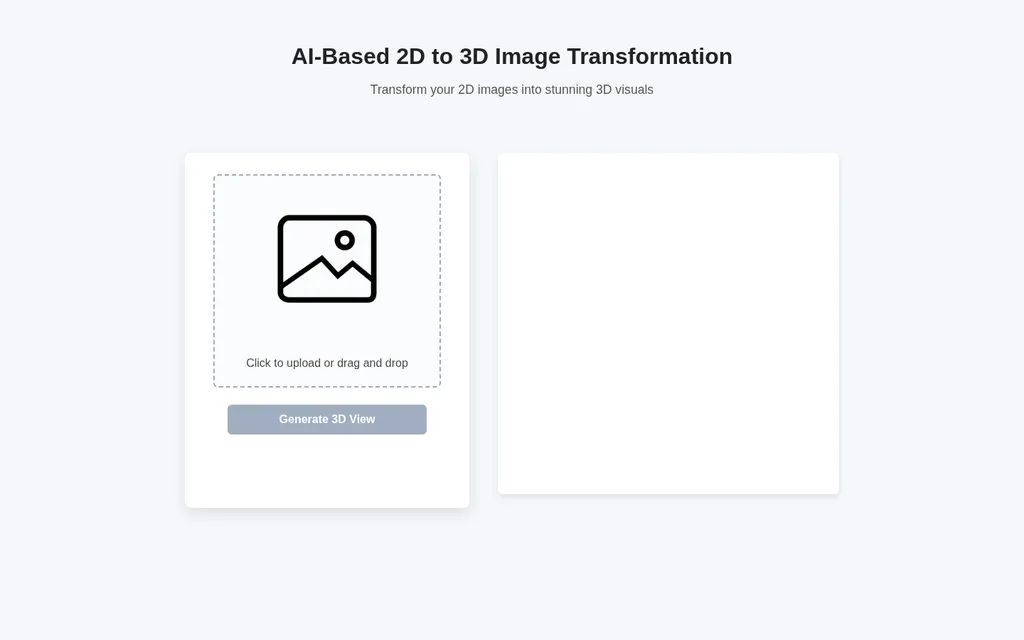
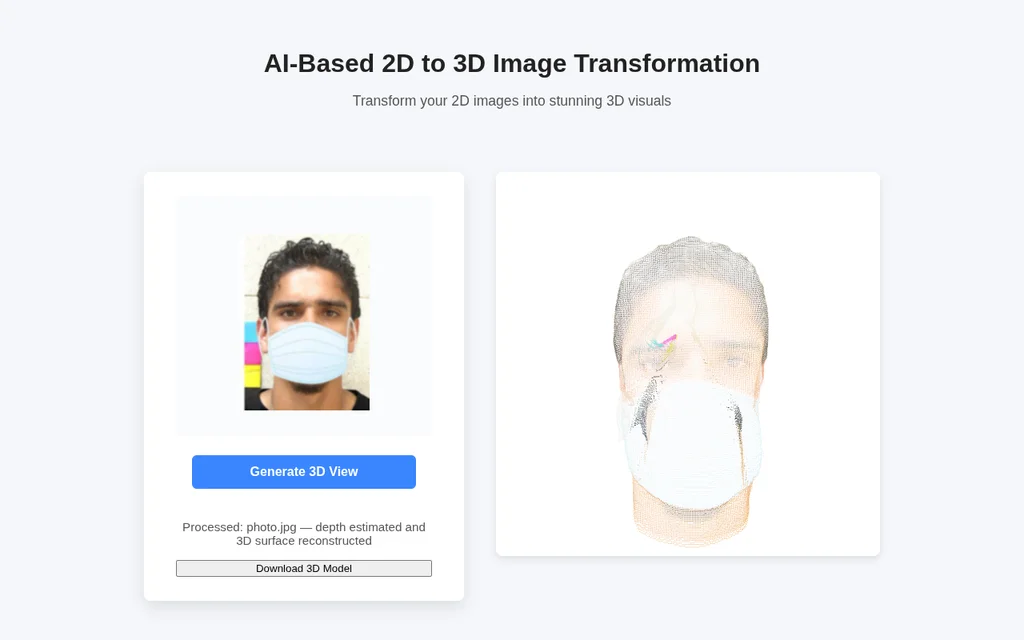
Round 2: real project shots, smooth animation, clearer finale, faster load
Project screenshots (assets/shots/) — recaptured from the real pipelines
so each card shows what the project actually does, not a placeholder:
- mask: YuNet face detect + Keras mask classifier at native res, crisp
  annotations upscaled (was a cluttered gif frame)
- web3d: DPT depth -> point cloud in the real app UI, 2D photo to 3D face
  (was the empty upload state)
- dbassistant: real FastAPI /docs, dark themed, POST /query expanded to
  show the request body (was a washed-out light Swagger)
- tinyblog: real Django homepage seeded with realistic posts (was light/sparse)

Animation smoothness (the "not that smooth" complaint) — the root cause was
the software-GL path never reaching a high frame rate, so the render cost had
to come down without losing the look:
- governor ladder extends below 1.0 ([1.5,1.25,1.0,0.75,0.6,0.5]) so
  SwiftShader/weak-iGPU machines trade internal size for a stable ~40fps;
  faster EMA + hysteresis so it settles quickly and never flaps
- the dithered halftone post pass is skipped at p >= 0.915, where the finale
  has fully blended to color and the pass is an identity copy
- the lensed-geodesic step budget (uSteps) scales with the governor ratio —
  it is the heaviest shader on the site
- accretion disk 60k -> 48k particles with a uGain compensation; a dense
  additive field, so it reads identically with less vertex work + overdraw

Final page legibility (the "final page not clear" complaint):
[…]

Changed region(s): [[0.1875, 0.3125, 0.4375, 0.9062], [0.5938, 0.375, 0.75, 0.8438], [0.25, 0.0625, 0.75, 0.1875]]

diff --git a/js/shared/stage.js b/js/shared/stage.js
@@ -96,22 +96,31 @@ export function createStage() {
      ratio down, sustained fast frames (<~15ms for a while) step it back
      up, with hysteresis so it never flaps. Desktops rarely leave the
      top step; on phones it is the difference between 60fps and jank. */
-  var GOV_MIN = 1.25;
+  /* the ladder extends below 1.0: on machines whose only renderer is a
+     software GL path (SwiftShader/llvmpipe, e.g. a headless VM) or a weak
+     iGPU, full-resolution frames never reach 40fps, so internal render
+     size is the only lever — the dithered look survives a size step and
+     40fps at 0.75x beats 15fps at full res. Fast GPUs never leave the
+     top step. */
   var govSteps = [getPixelRatio()];
-  if (govSteps[0] > 1.5) govSteps.push(1.5);
-  if (govSteps[0] > GOV_MIN) govSteps.push(GOV_MIN);
+  var LADDER = [1.5, 1.25, 1.0, 0.75, 0.6, 0.5];
+  for (var li = 0; li < LADDER.length; li++) {
+    if (govSteps[0] > LADDER[li]) govSteps.push(LADDER[li]);
+  }
   var govIdx = 0, govEma = 0, govLast = 0, govFrames = 0, govFast = 0;
+  var govOff = false; // manual freeze (debug / pinned quality): window.__EB.govOff(true)
 
   function tickGovernor() {
+    if (govOff) return;
     var now = (typeof performance !== 'undefined' && performance.now) ? performance.now() : Date.now();
     if (govLast) {
       var ft = now - govLast;
       if (ft > 0 && ft < 1000) {          // a tab-switch gap is not a slow frame
-        govEma = govEma ? govEma + (ft - govEma) * 0.05 : ft;
+        govEma = govEma ? govEma + (ft - govEma) * 0.1 : ft;
       }
     }
     govLast = now;
-    if (++govFrames % 30 !== 0 || govSteps.length < 2) return;
+    if (++govFrames % 15 !== 0 || govSteps.length < 2) return;
     if (govEma > 24 && govIdx < govSteps.length - 1) {
       govIdx++;
       govFast = 0;
@@ -130,17 +139,23 @@ export function createStage() {
   /* frame-end render: from p >= 0.91 the lensed black hole pass owns the
      screen (when a finale renderer is attached); otherwise the story
      scene goes through the dither post pass; the flash sink commits
-     exactly once per frame. */
+     exactly once per frame.
+     When the dither has fully blended to color (p >= 0.915) the post
+     pass is an identity copy — the finale blits straight to the screen
+     and the whole pass is skipped. */
   function render(ctx, finale) {
     tickGovernor();
+    var direct = !!(finale && ctx.p >= 0.915);
     if (ctx.p >= 0.91 && finale) {
-      finale(ctx);
+      finale(ctx, direct);
     } else {
       renderer.setRenderTarget(dither.rt);
       renderer.render(scene, camera);
     }
-    renderer.setRenderTarget(null);
-    renderer.render(dither.postScene, dither.postCam);
+    if (!direct) {
+      renderer.setRenderTarget(null);
+      renderer.render(dither.postScene, dither.postCam);
+    }
     flashSink.commit();
   }
 
@@ -152,6 +167,19 @@ export function createStage() {
     dither: dither,
     mobileQ: mobileQ,
     resize: resize,
-    render: render
+    render: render,
+    /* manual override (debug / future quality control): aligns the
+       governor to the ladder step closest to the requested ratio */
+    setRatio: function (r) {
+      var want = Math.max(0.5, Math.min(2, r || getPixelRatio()));
+      var best = 0, bd = Infinity;
+      for (var i = 0; i < govSteps.length; i++) {
+        var d = Math.abs(govSteps[i] - want);
+        if (d < bd) { bd = d; best = i; }
+      }
+      govIdx = best;
+      setPixelRatio(govSteps[best]);
+    },
+    govOff: function (b) { govOff = !!b; }
   };
 }

diff --git a/js/animations/shards/shards.js b/js/animations/shards/shards.js
@@ -41,6 +41,13 @@ var sDir, sZ0, sSpd, sSize, sAxis, sTSpd;
 var projectShards = [];
 var projectMeshes = [];
 
+/* the slab face canvas: 1024x672 device pixels. drawSlab works in a
+   512x336 design space (see the scale below), which the texture
+   upscales — at the slab's on-screen size (hundreds of device pixels
+   wide, up to ~1600 on 4K) the screenshot region stays sharp instead
+   of soft */
+var SLAB_W = 1024, SLAB_H = 672;
+
 // the cards' idle float clock: always ticks (fed from ctx.rawDt in
 // update) so the parked cards keep drifting gently even while the
 // story clock is frozen at the park
@@ -108,10 +115,28 @@ function buildShardGeometry(seedOffset) {
    SAME slab is repainted with the shot inside the glass and the
    CanvasTexture is bumped — the material is never swapped. A slow or
    failed load just leaves the procedural glass behind. */
+/* the screenshots are queued at init and fetched only when the story
+   is about to reach the shard band (p > 0.42): they are never part of
+   the first paint, so the page loads at the speed of three.js + the
+   hero scene. The slabs render as procedural glass until a shot
+   arrives (the onload repaints the same texture, no material swap). */
+var shotQueue = [];
+
+function loadShots() {
+  if (!shotQueue.length) return;
+  for (var i = 0; i < shotQueue.length; i++) {
+    var s = shotQueue[i];
+    s.img.fetchPriority = 'low';
+    s.img.decoding = 'async';
+    s.img.src = s.src;
+  }
+  shotQueue.length = 0;
+}
+
 function buildShardTexture(i) {
-  var W = 512, H = 336;
-  var c = document.createElement('canvas'); c.width = W; c.height = H;
+  var c = document.createElement('canvas'); c.width = SLAB_W; c.height = SLAB_H;
   var ctx = c.getContext('2d');
+  ctx.scale(SLAB_W / 512, SLAB_H / 336); // drawSlab uses 512x336 design units
   var t = new THREE.CanvasTexture(c);
   t.colorSpace = THREE.SRGBColorSpace;
 
@@ -127,7 +152,7 @@ function buildShardTexture(i) {
       drawSlab(i, slab);
       t.needsUpdate = true;
     };
-    img.src = ROOT + pr.shot;
+    shotQueue.push({ img: img, src: ROOT + pr.shot });
   }
   return t;
 }
@@ -383,6 +408,10 @@ function update(ctx) {
   var sizeMul = ctx.isMobile ? 0.8 : 1.0;
   var xMul = ctx.isMobile ? 0.5 : 1.0;
   var ex = ctx.ex, pop = ctx.pop, pull = ctx.pull, flowZ = ctx.flowZ;
+
+  /* the shots are fetched once, just before the shard band (p >= 0.585)
+     — they never ride along with the first paint */
+  if (shotQueue.length && p > 0.42) loadShots();
 
   /* ambient shards — the instanced-matrix loop (and the upload) runs
      only when one of its inputs moved. While the story is parked,

diff --git a/js/animations/blackhole/lens.js b/js/animations/blackhole/lens.js
@@ -16,15 +16,16 @@ import { getPixelRatio, onPixelRatio } from '../../shared/pixratio.js';
 var rtWorld, rtLens;
 var lensMat, lensScene, lensCam;
 var blitMat, blitScene, blitCam;
+var isMobile = false;
 
 var BH_RS = 50; // schwarzschild radius — must match BH_RS in blackhole/hole.js
 
 function init(ctx) {
+  isMobile = ctx.isMobile;
+
   /* the stage's adaptive governor steps the ratio at runtime: keep
      the render-target sizes in sync without a window resize */
-  onPixelRatio(function () { resize(); });
-
-  var isMobile = ctx.isMobile;
+  onPixelRatio(function () { resize(); applyQuality(); });
 
   rtWorld = new THREE.WebGLRenderTarget(2, 2, {
     minFilter: THREE.LinearFilter, magFilter: THREE.LinearFilter
@@ -177,6 +178,7 @@ function init(ctx) {
   blitScene.add(new THREE.Mesh(new THREE.PlaneGeometry(2, 2), blitMat));
 
   resize();
+  applyQuality();
 }
 
 function resize() {
@@ -191,12 +193,24 @@ function resize() {
   lensMat.uniforms.uAspect.value = lw / lh;
 }
 
+/* the geodesic loop's step budget tracks the pixel ratio: a lowered
+   ratio means the governor found slow frames (software GL / weak
+   iGPU), and the RK4 trace is the heaviest shader on the site. Fewer
+   steps only change rays that orbit 4+ turns before escaping — a
+   sub-pixel sliver hugging the critical ring, invisible in practice. */
+function applyQuality() {
+  var r = getPixelRatio();
+  lensMat.uniforms.uSteps.value = isMobile
+    ? (r <= 0.75 ? 600 : 900)
+    : (r <= 0.75 ? 1000 : 1600);
+}
+
 function update(ctx) {
   // fade the whole lensed image in over H
   lensMat.uniforms.uBi.value = M.phase(0.91, 0.95, ctx.p);
 }
 
-function render(ctx) {
+function render(ctx, direct) {
   var renderer = ctx.renderer, camera = ctx.camera;
   // 1) lensable world (starfield + nebulae + particle disk) -> rtWorld
   renderer.setRenderTarget(rtWorld);
@@ -208,9 +222,11 @@ function render(ctx) {
   lensMat.uniforms.uFl.value = 1 / Math.tan((camera.fov * 0.5) * Math.PI / 180);
   renderer.setRenderTarget(rtLens);
   renderer.render(lensScene, lensCam);
-  // 3) blit the lensed image into the main RT (dither pass follows as usual)
+  // 3) blit the lensed image into the main RT (the dither pass follows
+  //    as usual) — or straight to the screen when the dither is fully
+  //    blended to color and the post pass would be an identity copy
   blitMat.map = rtLens.texture;
-  renderer.setRenderTarget(dither.rt);
+  renderer.setRenderTarget(direct ? null : dither.rt);
   renderer.render(blitScene, blitCam);
 }
 

diff --git a/css/style.css b/css/style.css
@@ -201,7 +201,7 @@ body { overflow-x: hidden; }
   position: absolute;
   inset: 0;
   background: linear-gradient(100deg,
-    rgba(0, 0, 0, 0.66) 0%, rgba(0, 0, 0, 0.34) 30%, rgba(0, 0, 0, 0) 52%);
+    rgba(0, 0, 0, 0.78) 0%, rgba(0, 0, 0, 0.45) 30%, rgba(0, 0, 0, 0.12) 52%, rgba(0, 0, 0, 0) 68%);
   pointer-events: none;
 }
 
@@ -224,11 +224,11 @@ body { overflow-x: hidden; }
   align-items: center;
   gap: 9px;
   margin: 0 0 6px;
-  font-size: 11px;
+  font-size: 12px;
   font-weight: 700;
   letter-spacing: 0.38em;
   text-transform: uppercase;
-  color: rgba(255, 255, 255, 0.78);
+  color: rgba(255, 255, 255, 0.85);
 }
 
 #final-tag .dot {
@@ -247,31 +247,34 @@ body { overflow-x: hidden; }
   line-height: 1.04;
   color: #ffffff;
   -webkit-text-fill-color: #ffffff;
+  /* tight dark core shadow for legibility, glow kept short so the
+     letterforms stay crisp over the lensed disk */
   text-shadow:
-    0 0 12px rgba(214, 230, 255, 0.8),
-    0 0 38px rgba(125, 165, 255, 0.55),
-    0 0 90px rgba(255, 170, 90, 0.35),
-    0 2px 10px rgba(0, 0, 0, 0.95);
+    0 0 8px rgba(214, 230, 255, 0.55),
+    0 0 30px rgba(125, 165, 255, 0.35),
+    0 2px 12px rgba(0, 0, 0, 0.98),
+    0 4px 28px rgba(0, 0, 0, 0.8);
 }
 
 #final-sub {
   margin: 0;
-  font-size: 11px;
+  font-size: 12.5px;
   letter-spacing: 0.42em;
   text-transform: uppercase;
-  color: rgba(255, 255, 255, 0.82);
-  text-shadow: 0 1px 6px rgba(0, 0, 0, 0.9);
+  color: rgba(255, 255, 255, 0.92);
+  text-shadow: 0 1px 4px rgba(0, 0, 0, 0.95), 0 2px 12px rgba(0, 0, 0, 0.8);
 }
 
-/* dim credential line under the sub (role · education · certification) */
+/* credential line under the sub (role · education · certification) —
+   bright enough to read at arm's length */
 #final-meta {
   margin: -8px 0 0;
   max-width: 34em;
-  font-size: 11px;
+  font-size: 12.5px;
   line-height: 1.7;
   letter-spacing: 0.06em;
-  color: rgba(255, 255, 255, 0.55);
-  text-shadow: 0 1px 6px rgba(0, 0, 0, 0.9);
+  color: rgba(255, 255, 255, 0.8);
+  text-shadow: 0 1px 4px rgba(0, 0, 0, 0.95), 0 2px 12px rgba(0, 0, 0, 0.8);
 }
 
 #final-btns {
@@ -318,9 +321,10 @@ body { overflow-x: hidden; }
   right: 4vw;
   bottom: 5vh;
   z-index: 4;
-  font-size: 10px;
+  font-size: 11px;
   letter-spacing: 0.24em;
-  color: rgba(255, 196, 140, 0.55);
+  color: rgba(255, 196, 140, 0.75);
+  text-shadow: 0 1px 4px rgba(0, 0, 0, 0.9);
   opacity: 0;
   visibility: hidden;
   pointer-events: none;

diff --git a/js/animations/blackhole/hole.js b/js/animations/blackhole/hole.js
@@ -127,7 +127,10 @@ function init(ctx, opts) {
   onPixelRatio(function () { resize(); });
 
   var isMobile = ctx.isMobile;
-  BH_N = isMobile ? 22000 : 60000;
+  /* 48k (was 60k): the disk is a dense additive field, so a count cut
+     compensated by uGain reads identically — it just cuts vertex work
+     and overdraw on the software-GL machines the governor targets */
+  BH_N = isMobile ? 18000 : 48000;
   BH_RS = 50;        // schwarzschild radius = event horizon
   BH_GM = 400000;    // gravitational parameter (particle orbits)
   BH_DRAG = 0.025;   // 2.5%/s velocity loss -> inspiral, steady infall
@@ -174,7 +177,9 @@ function init(ctx, opts) {
   bhGeo.setAttribute('aSize', new THREE.BufferAttribute(bhSiz, 1));
 
   bhMat = new THREE.ShaderMaterial({
-    uniforms: { uPixel: { value: getPixelRatio() }, uOpacity: { value: 0 }, uGain: { value: 0.55 } },
+    /* uGain is the 60k -> 48k count compensation (each particle a bit
+       brighter, the same total light) */
+    uniforms: { uPixel: { value: getPixelRatio() }, uOpacity: { value: 0 }, uGain: { value: 0.69 } },
     vertexShader: [
       'attribute float aSize;',
       'attribute vec3 aColor;',

diff --git a/index.html b/index.html
@@ -7,6 +7,14 @@
 <meta name="description" content="Deepak Sharma — AI/ML Engineer. Computer vision, deep learning and applied AI: real-time detection, monocular depth estimation, 3D reconstruction and production deployment." />
 <script>window.__ROOT__ = "";</script> <!-- site-root prefix for asset paths (js/shared/root.js) -->
 <link rel="stylesheet" href="css/style.css" />
+<!-- three.js is the only external dependency and the biggest file on
+     the page: start it at parse time, in parallel with everything else
+     (classic script, so no crossorigin attribute — it must match the
+     <script> fetch below) -->
+<link rel="preload" as="script" href="https://cdn.jsdelivr.net/npm/three@0.160.0/build/three.min.js" />
+<!-- same for the module entry: main.js's static imports resolve in
+     parallel instead of one-by-one after the first parse -->
+<link rel="modulepreload" href="js/main.js" />
 </head>
 <body>
 

diff --git a/js/main.js b/js/main.js
@@ -115,5 +115,10 @@ if (stage) {
 
   /* small debug hook (used by the headless smoke test, handy in the
      console): window.__EB.ctx is the live per-frame context */
-  window.__EB = { ctx: ctx };
+  window.__EB = {
+    ctx: ctx,
+    dither: stage.dither,
+    setRatio: (r) => stage.setRatio(r),
+    govOff: (b) => stage.govOff(b)
+  };
 }

diff --git a/test/stubs.js b/test/stubs.js
@@ -46,6 +46,8 @@ function makeCanvas() {
       fillRect() {},
       clearRect() {},
       drawImage() {},
+      scale() {},
+      translate() {},
       strokeRect() {},
       beginPath() {},
       closePath() {},
